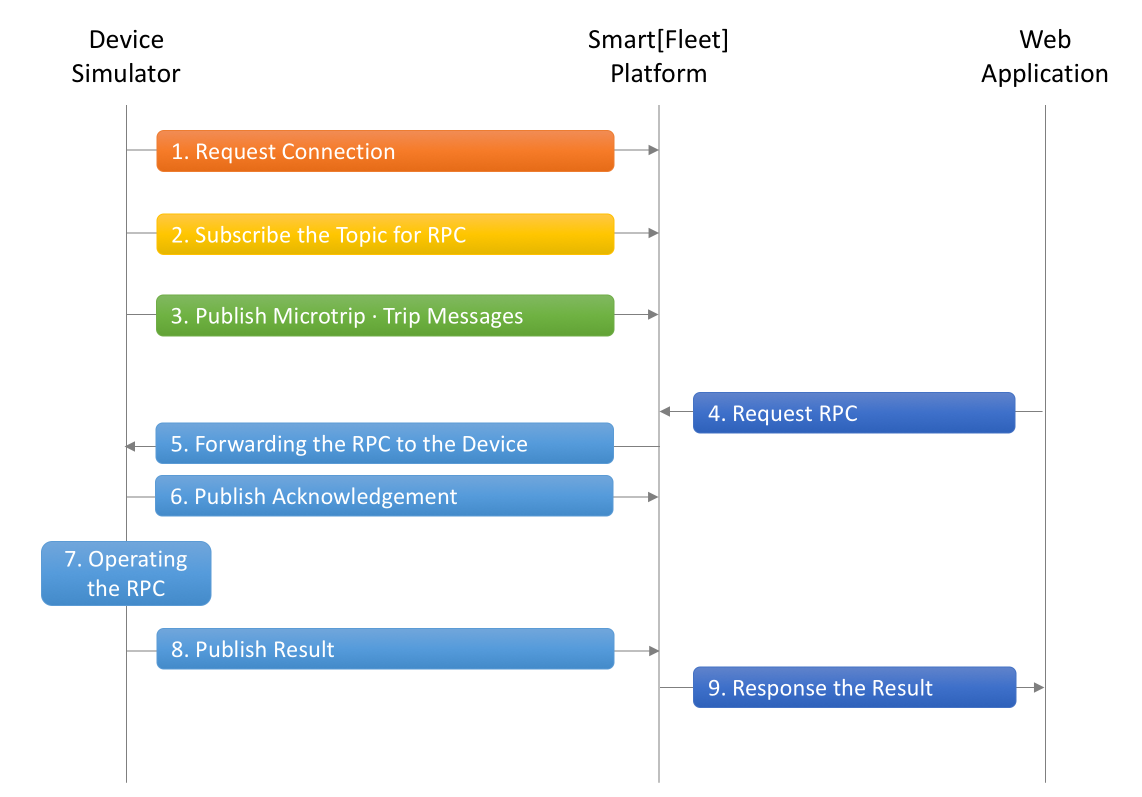
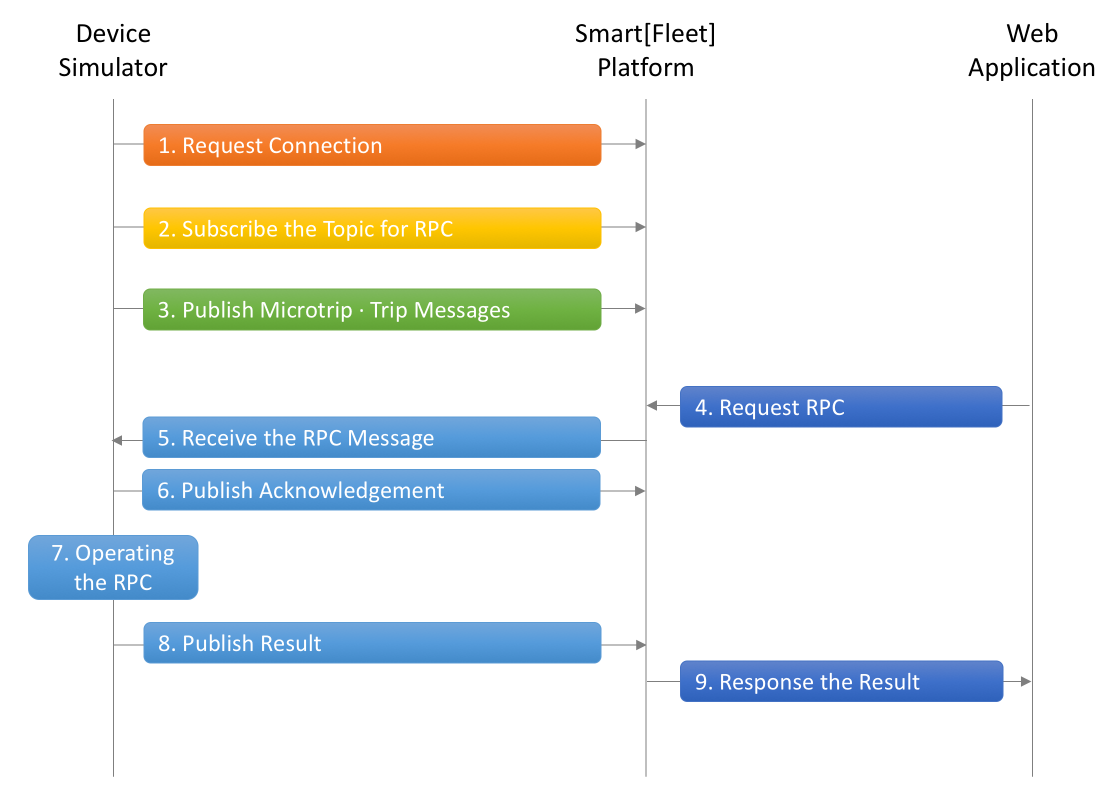
add readme context

diff --git a/device_GPS.js b/device_GPS.js
@@ -1,8 +1,3 @@
-/**
- * Created by hb.ahn@sk.com on 11/07/2017.
- * This is only for test
- */
-
 'use strict';
 
 // for logging
@@ -56,7 +51,7 @@ var messageSender = mqtt.connect('mqtts://' + config.Host, {
 
 messageSender.on('connect', function() {
 
-    console.log(colors.green('Connected Smart[Fleet] Platform'));
+    console.log(colors.green('[Flow #1] Connected Smart[Fleet] Platform'));
     console.log(colors.blue('ClientID : ' + clientIdSession));
 
     subscribeRPCTopic();
@@ -70,30 +65,24 @@ messageSender.on('error', function(error){
 
 });
 
-// messageArrived callback
-messageSender.on('message', function(topic, message) {
-    var msgs = message.toString();
-    var topic = topic.toString();
-    var requestId = topic.toString().split('/')[5];
+//////////////////////////////////////////////////
+// Flow #2 : Subscribe the Topic for RPC 
+//////////////////////////////////////////////////
 
-    if (msgs != null){
-      console.log(colors.magenta('Received RPC Message'));
-      console.log(colors.magenta('Topic :' + topic));
-      console.log(colors.magenta(msgs));
-      console.log(colors.magenta(''));
-
-      responseRPCRequest(requestId);
-    }
-});
-
-function intervalSender(){
-
-    tid++;
-    sequence=0;
-    IntervalFunction = setInterval(sendingMicroTripMessage, config.updateInterval);
+function subscribeRPCTopic(){
   
-}
+      messageSender.subscribe(utils.rpcReqTopic, {qos: 1}, function() {
+        // Response it as a callback
+        console.log(colors.yellow('[Flow #2] Successfully Subscribe the RPC topic to Smart[Fleet] Platform'));
+        console.log(colors.yellow(''));
+  
+      });
+  }
 
+
+//////////////////////////////////////////////////
+// Flow #3 : Publish MicroTrip Message
+//////////////////////////////////////////////////
 
 function sendingMicroTripMessage()
 {
@@ -127,7 +116,7 @@ function sendingMicroTripMessage()
   };
 
   messageSender.publish(utils.sendingTopic, JSON.stringify(microTrip), {qos: 0}, function(){
-    console.log(colors.yellow('Successfully sending a MicroTrip message to Smart[Fleet] Platform'));
+    console.log(colors.yellow('[Flow #3] Successfully sending a MicroTrip message to Smart[Fleet] Platform'));
     console.log(colors.yellow('Message : ' + JSON.stringify(microTrip)));
     console.log(colors.yellow(''));
   });
@@ -137,6 +126,11 @@ function sendingMicroTripMessage()
     sendingTripMessage();
   }
 }
+
+
+//////////////////////////////////////////////////
+// Flow #3 : Publish Trip Message
+//////////////////////////////////////////////////
 
 function sendingTripMessage(){
 
@@ -161,7 +155,7 @@ function sendingTripMessage(){
   };
 
   messageSender.publish(utils.sendingTopic, JSON.stringify(trip), {qos: 1}, function(){
-    console.log(colors.yellow('Successfully sending a Trip message to Smart[Fleet] Platform'));
+    console.log(colors.yellow('[Flow #3] Successfully sending a Trip message to Smart[Fleet] Platform'));
     console.log(colors.yellow('Message : ' + JSON.stringify(trip)));
     console.log(colors.yellow(''));
   });
@@ -169,18 +163,40 @@ function sendingTripMessage(){
   intervalSender();
 }
 
-// Subscribe the RPC topic
-function subscribeRPCTopic(){
 
-    messageSender.subscribe(utils.rpcReqTopic, {qos: 1}, function() {
-      // Response it as a callback
-      console.log(colors.yellow('Successfully Subscribe the RPC topic to Smart[Fleet] Platform'));
-      console.log(colors.yellow(''));
+//////////////////////////////////////////////////
+// Flow #5 : Receive the RPC Message
+// 본 시뮬레이터에서는 Subscribe 한 Topic에 메시지가 수신된 경우의 Callback을 5번 과정을 명시합니다.
+//////////////////////////////////////////////////
 
-    });
+
+messageSender.on('message', function(topic, message) {
+    var msgs = message.toString();
+    var topic = topic.toString();
+    var requestId = topic.toString().split('/')[5];
+
+    if (msgs != null){
+      console.log(colors.magenta('[Flow #5] Receive the RPC Message'));
+      console.log(colors.magenta('Topic :' + topic));
+      console.log(colors.magenta(msgs));
+      console.log(colors.magenta(''));
+
+      responseRPCRequest(requestId);
+    }
+});
+
+function intervalSender(){
+
+    tid++;
+    sequence=0;
+    IntervalFunction = setInterval(sendingMicroTripMessage, config.updateInterval);
+  
 }
 
-// Publish the RPC Result
+//////////////////////////////////////////////////
+// Flow #6 : Publish Acknowledgement
+//////////////////////////////////////////////////
+
 function responseRPCRequest(arg){
 
     var sendingMessageObj = {
@@ -190,13 +206,24 @@ function responseRPCRequest(arg){
     var sendingMessageJSON = JSON.stringify(sendingMessageObj);
 
     messageSender.publish(utils.rpcResTopic + arg, sendingMessageJSON, {qos: 1}, function() {
-      console.log(colors.magenta('Successfully sending a RPC Response message to Smart[Fleet] Platform'));
+      console.log(colors.magenta('[Flow #6] Successfully sending a RPC Response message to Smart[Fleet] Platform'));
       console.log(colors.magenta('Message : ' + sendingMessageJSON));
       console.log(colors.magenta(''));
     });
 
+
+//////////////////////////////////////////////////
+// Flow #7 : Operating the RPC
+// 본 시뮬레이터에서는 2초 정도의 지연으로 RPC 수행을 대신합니다.
+//////////////////////////////////////////////////
+
     setTimeout(resultRPCpublish, 2000, arg) ;
 }
+
+
+//////////////////////////////////////////////////
+// Flow #8 : Publish RPC Result
+//////////////////////////////////////////////////
 
 function resultRPCpublish(arg){
 
@@ -213,7 +240,7 @@ function resultRPCpublish(arg){
   var sendingResultJSON = JSON.stringify(sendingMessageObj);
 
   messageSender.publish(utils.rpcRstTopic + arg, sendingResultJSON, {qos: 1}, function() {
-    console.log(colors.magenta('Successfully sending a RPC Result to Smart[Fleet] Platform'));
+    console.log(colors.magenta('[Flow #8] Successfully sending a RPC Result to Smart[Fleet] Platform'));
     console.log(colors.magenta('Message : ' + sendingResultJSON));
     console.log(colors.magenta(''));
   });

diff --git a/config.js b/config.js
@@ -9,7 +9,7 @@ module.exports = {
     HttpPort : '9000',
 
     // 20-digits Device Access Token given by manufacturer
-    userName : // Please input your access token
+    userName : '{Please input your access token}',
     updateInterval : 2000,
     microTripCnt : 10,
 

diff --git a/README.md b/README.md
@@ -71,12 +71,12 @@ module.exports = {
     HttpPort : '9000',
 
     // 20-digits Device Access Token given by manufacturer
-    userName : // Please input your access token , 
-
+    userName : '{Please input your access token}',
     updateInterval : 2000,
     microTripCnt : 10,
 
 }
+
 ```
 ### Device Simulator 정상 동작 예시
 
@@ -86,52 +86,52 @@ module.exports = {
 
 ```
 Connecting to Smart[Fleet] Platform
-Connected Smart[Fleet] Platform
-ClientID : trf2e1f18fe
-Successfully Subscribe the RPC topic to Smart[Fleet] Platform
+[Flow #1] Connected Smart[Fleet] Platform
+ClientID : trf3c541487
+[Flow #2] Successfully Subscribe the RPC topic to Smart[Fleet] Platform
 
-Successfully sending a MicroTrip message to Smart[Fleet] Platform
-Message : {"ty":2,"ts":1507967798618,"ap":0,"pld":{"tid":1,"lon":127.062512,"lat":37.510296,"alt":118,"sp":69,"dop":13,"nos":4,"clt":1507967798618}}
+[Flow #3] Successfully sending a MicroTrip message to Smart[Fleet] Platform
+Message : {"ty":2,"ts":1507968690899,"ap":0,"pld":{"tid":1,"lon":127.062512,"lat":37.510296,"alt":118,"sp":62,"dop":20,"nos":3,"clt":1507968690899}}
 
-Successfully sending a MicroTrip message to Smart[Fleet] Platform
-Message : {"ty":2,"ts":1507967800620,"ap":0,"pld":{"tid":1,"lon":127.061969,"lat":37.511334,"alt":117,"sp":72,"dop":14,"nos":2,"clt":1507967800620}}
+[Flow #3] Successfully sending a MicroTrip message to Smart[Fleet] Platform
+Message : {"ty":2,"ts":1507968692903,"ap":0,"pld":{"tid":1,"lon":127.061969,"lat":37.511334,"alt":116,"sp":62,"dop":13,"nos":2,"clt":1507968692903}}
 
-Successfully sending a MicroTrip message to Smart[Fleet] Platform
-Message : {"ty":2,"ts":1507967802622,"ap":0,"pld":{"tid":1,"lon":127.061426,"lat":37.512353,"alt":113,"sp":89,"dop":18,"nos":3,"clt":1507967802622}}
+[Flow #3] Successfully sending a MicroTrip message to Smart[Fleet] Platform
+Message : {"ty":2,"ts":1507968694909,"ap":0,"pld":{"tid":1,"lon":127.061426,"lat":37.512353,"alt":102,"sp":74,"dop":21,"nos":4,"clt":1507968694909}}
 
-Successfully sending a MicroTrip message to Smart[Fleet] Platform
-Message : {"ty":2,"ts":1507967804624,"ap":0,"pld":{"tid":1,"lon":127.060685,"lat":37.513743,"alt":103,"sp":81,"dop":14,"nos":2,"clt":1507967804624}}
+[Flow #3] Successfully sending a MicroTrip message to Smart[Fleet] Platform
+Message : {"ty":2,"ts":1507968696911,"ap":0,"pld":{"tid":1,"lon":127.060685,"lat":37.513743,"alt":118,"sp":84,"dop":20,"nos":2,"clt":1507968696911}}
 
-Successfully sending a MicroTrip message to Smart[Fleet] Platform
-Message : {"ty":2,"ts":1507967806630,"ap":0,"pld":{"tid":1,"lon":127.060067,"lat":37.51477,"alt":106,"sp":67,"dop":17,"nos":3,"clt":1507967806630}}
+[Flow #3] Successfully sending a MicroTrip message to Smart[Fleet] Platform
+Message : {"ty":2,"ts":1507968698915,"ap":0,"pld":{"tid":1,"lon":127.060067,"lat":37.51477,"alt":104,"sp":51,"dop":17,"nos":2,"clt":1507968698915}}
 
-Successfully sending a MicroTrip message to Smart[Fleet] Platform
-Message : {"ty":2,"ts":1507967808633,"ap":0,"pld":{"tid":1,"lon":127.0592,"lat":37.516314,"alt":106,"sp":70,"dop":17,"nos":5,"clt":1507967808633}}
+[Flow #3] Successfully sending a MicroTrip message to Smart[Fleet] Platform
+Message : {"ty":2,"ts":1507968700918,"ap":0,"pld":{"tid":1,"lon":127.0592,"lat":37.516314,"alt":111,"sp":82,"dop":14,"nos":3,"clt":1507968700918}}
 
-Received RPC Message
-Topic :v1/sensors/me/rpc/request/3b39eab0-b0b5-11e7-8c12-ed6c4a5c999b
+[Flow #5] Receive the RPC Message
+Topic :v1/sensors/me/rpc/request/4f355b10-b0b7-11e7-8c12-ed6c4a5c999b
 {"method":"d","params":{"pin":"23","value":1}}
 
-Successfully sending a RPC Response message to Smart[Fleet] Platform
+[Flow #6] Successfully sending a RPC Response message to Smart[Fleet] Platform
 Message : {"results":2000}
 
-Successfully sending a MicroTrip message to Smart[Fleet] Platform
-Message : {"ty":2,"ts":1507967810633,"ap":0,"pld":{"tid":1,"lon":127.058356,"lat":37.517931,"alt":111,"sp":50,"dop":16,"nos":5,"clt":1507967810633}}
+[Flow #3] Successfully sending a MicroTrip message to Smart[Fleet] Platform
+Message : {"ty":2,"ts":1507968702924,"ap":0,"pld":{"tid":1,"lon":127.058356,"lat":37.517931,"alt":118,"sp":65,"dop":18,"nos":2,"clt":1507968702924}}
 
-Successfully sending a RPC Result to Smart[Fleet] Platform
+[Flow #8] Successfully sending a RPC Result to Smart[Fleet] Platform
 Message : {"results":2000,"additionalInfo":{"rusage":{"recv":100,"stime":200}}}
 
-Successfully sending a MicroTrip message to Smart[Fleet] Platform
-Message : {"ty":2,"ts":1507967812638,"ap":0,"pld":{"tid":1,"lon":127.057246,"lat":37.519846,"alt":104,"sp":87,"dop":14,"nos":2,"clt":1507967812638}}
+[Flow #3] Successfully sending a MicroTrip message to Smart[Fleet] Platform
+Message : {"ty":2,"ts":1507968704929,"ap":0,"pld":{"tid":1,"lon":127.057246,"lat":37.519846,"alt":115,"sp":70,"dop":16,"nos":3,"clt":1507968704929}}
 
-Successfully sending a MicroTrip message to Smart[Fleet] Platform
-Message : {"ty":2,"ts":1507967814643,"ap":0,"pld":{"tid":1,"lon":127.056837,"lat":37.520759,"alt":108,"sp":89,"dop":14,"nos":5,"clt":1507967814643}}
+[Flow #3] Successfully sending a MicroTrip message to Smart[Fleet] Platform
+Message : {"ty":2,"ts":1507968706933,"ap":0,"pld":{"tid":1,"lon":127.056837,"lat":37.520759,"alt":101,"sp":61,"dop":20,"nos":6,"clt":1507968706933}}
 
-Successfully sending a MicroTrip message to Smart[Fleet] Platform
-Message : {"ty":2,"ts":1507967816647,"ap":0,"pld":{"tid":1,"lon":127.063228,"lat":37.509141,"alt":103,"sp":83,"dop":14,"nos":3,"clt":1507967816647}}
+[Flow #3] Successfully sending a MicroTrip message to Smart[Fleet] Platform
+Message : {"ty":2,"ts":1507968708933,"ap":0,"pld":{"tid":1,"lon":127.063228,"lat":37.509141,"alt":120,"sp":84,"dop":18,"nos":3,"clt":1507968708933}}
 
-Successfully sending a Trip message to Smart[Fleet] Platform
-Message : {"ty":1,"ts":1507967816647,"pld":{"tid":1,"stt":1507967798618,"edt":1507967816647,"dis":1022,"stlat":37.509141,"stlon":127.063228,"edlat":37.520759,"edlon":127.056837,"hsts":90,"mesp":56,"fwv":"1.0.1","dtvt":102}}
+[Flow #3] Successfully sending a Trip message to Smart[Fleet] Platform
+Message : {"ty":1,"ts":1507968708934,"pld":{"tid":1,"stt":1507968690899,"edt":1507968708933,"dis":1022,"stlat":37.509141,"stlon":127.063228,"edlat":37.520759,"edlon":127.056837,"hsts":90,"mesp":56,"fwv":"1.0.1","dtvt":102}}
 ```
 
 
